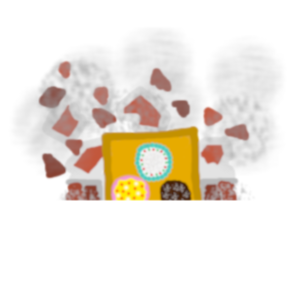
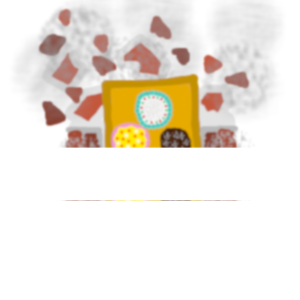
tables and cart added visually

diff --git a/evil.js b/evil.js
@@ -62,8 +62,15 @@
   var tableSideLen = 128;
 
   function genTables(c){
-    let level1 = [[10,10,10+tableSideLen,10+tableSideLen],
-                  []]
+    let level1 = [[30,30,tableSideLen,tableSideLen],
+                  [158,30,tableSideLen,tableSideLen],
+                  [300,490,tableSideLen,tableSideLen],
+                  [870,450,tableSideLen,tableSideLen],
+                  [287,159,tableSideLen,tableSideLen],
+                  [1122,275,tableSideLen,tableSideLen],
+                  [700,350,tableSideLen,tableSideLen],
+                  [30,360,tableSideLen,tableSideLen],
+                  [700,30,tableSideLen,tableSideLen]]
 
     tables = level1;
 
@@ -72,6 +79,17 @@
       tableImgs[i].src = "./assets/table.png"
       c.drawImage(tableImgs[i],level1[i][0],level1[i][1],level1[i][2], level1[i][3])
     }
+  }
+
+
+  // cart
+
+  function drawCart(c){
+    var cartPos = [640-150, 720-150];
+    var cartImgSide = 300;
+    let cartImg = new Image();
+    cartImg.src = "./assets/cart.png";
+    c.drawImage(cartImg,cartPos[0],cartPos[1],cartImgSide,cartImgSide);
   }
 
 
@@ -88,16 +106,9 @@
   var lastImg = "./assets/rexW.png";
 
   function movingSprite(c) {
-
-    let playerSprite = new Image();
-    
-    // var canvas = document.getElementById("evilCanvas");
-    // var c = canvas.getContext("2d");
     
     var imgWidth = 100;
     var imgHeight = 100;
-
-    // c.clearRect(0, 0, canvasWidth, canvasHeight); 
 
     playerSprite.src = lastImg;
 
@@ -151,6 +162,8 @@
     var c = canvas.getContext("2d");
 
     c.clearRect(0, 0, canvasWidth, canvasHeight);
+
+    drawCart(c);
 
     genTables(c);
 

diff --git a/stylesheet.css b/stylesheet.css
@@ -1,6 +1,7 @@
 #evilCanvas {
-    border:1px solid #FFFFFF; 
+    
     background-color: #FFFFFF; 
+    background-image: url('./assets/floor.png');
 
     padding: 0;
     margin: auto;
